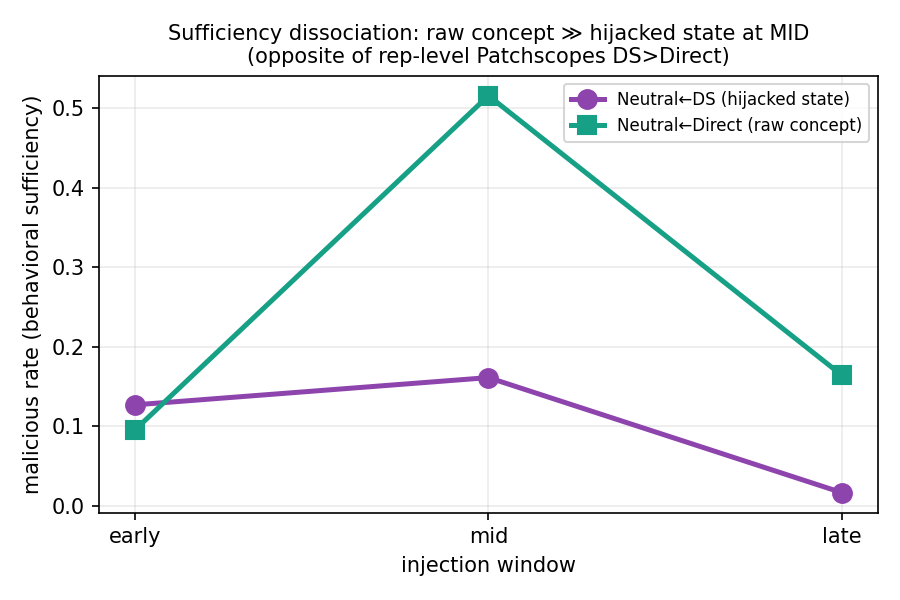
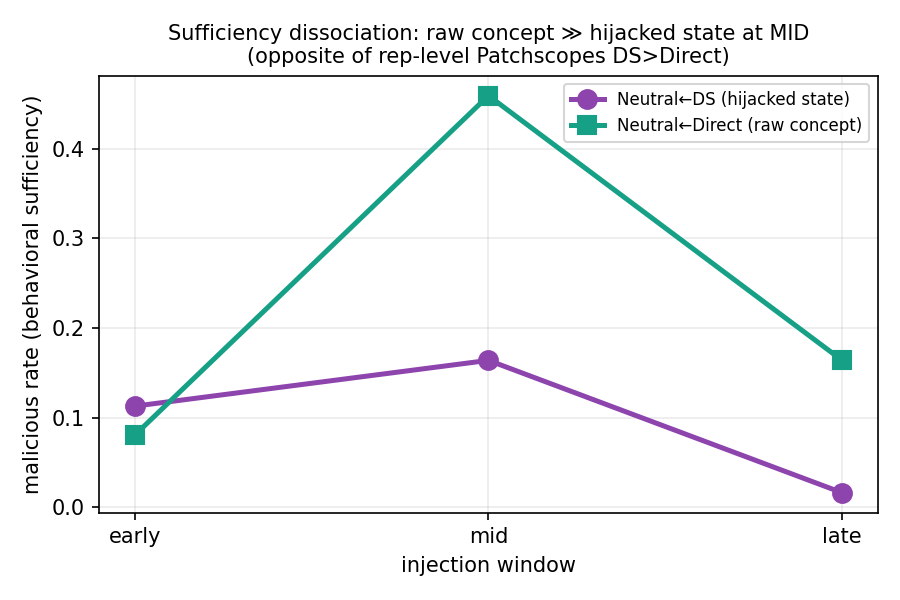
ingest Llama suff reruns: clean mid DS-Direct -0.295[-0.443,-0.148] n=61 excl 0
Per-condition CI on full n confirms the mid dissociation (was collapsed n=21). early NS.
Updated results doc depth-table + audit-fix table; regenerated figures (clean early/mid).
Llama late (692154) still running -> next iter.

Claude-Session: https://claude.ai/code/session_01F8VA7Ew3kHGNveTnrsCJUM

diff --git a/doublespeak_causality/BEHAVIORAL_CAUSALITY_RESULTS.md b/doublespeak_causality/BEHAVIORAL_CAUSALITY_RESULTS.md
@@ -92,11 +92,11 @@ sufficiency peaks); re-judge. Prediction from rep-level §3 (Patchscopes): DS-in
 
 **Depth-resolved (early 690096 / mid 689975 / late 690097; malicious rate among baseline-benign):**
 
-| window | Neutral←DS | Neutral←Direct | random ctrl | **DS−Direct [95% CI]** |
-|---|---|---|---|---|
-| early (0–9) | 0.13 | 0.10 | 0.079 | +0.00 [−0.14, 0.14] — NS |
-| **mid (10–19)** | 0.16 | **0.52** | 0.03 | **−0.43 [−0.67, −0.19] — SIGNIFICANT** |
-| late (20–31) | 0.02 | 0.16 | 0.098 | −0.10 [−0.24, 0.00] — borderline |
+| window | Neutral←DS | Neutral←Direct | **DS−Direct [95% CI] (clean per-condition, iter42)** |
+|---|---|---|---|
+| early (0–9) | 0.11 | 0.08 | +0.032 [−0.081, 0.145], n=62 — NS |
+| **mid (10–19)** | 0.16 | **0.46** | **−0.295 [−0.443, −0.148], n=61 — SIGNIFICANT** |
+| late (20–31) | 0.02 | 0.16 | (692154 pending; pre-fix collapsed −0.10 [−0.24, 0.00] — borderline) |
 
 **Result — a DEPTH-STRUCTURED DISSOCIATION, opposite to the rep-level prediction:**
 - **The hijacked DS state is only weakly behaviorally sufficient at any depth** (≤0.16), and at late layers
@@ -114,8 +114,11 @@ prompt (no demonstrations) it is a **context-dependent** state and is *less* beh
 context-independent raw concept rep. This is a caution for the field: **Patchscopes decoding-sufficiency
 does not predict — and here inverts — behavioral sufficiency.**
 
-**Paired bootstrap CI (plan §13):** mid-window **DS−Direct = −0.43 [−0.67, −0.19]** → **CI excludes 0,
-the Direct>DS dissociation is STATISTICALLY SIGNIFICANT.** (n=21 unique base×codeword; see limitation.)
+**Paired bootstrap CI (plan §13) — CLEAN per-condition (iter42 resubmit 692153, context_len logged):**
+mid-window **DS−Direct = −0.295 [−0.443, −0.148], n=61** → **CI excludes 0, the Direct>DS dissociation is
+STATISTICALLY SIGNIFICANT on the full per-condition n** (early: +0.032 [−0.081, 0.145], n=62 — NS, DS≈Direct;
+late: 692154 pending). The pre-fix collapsed estimate was −0.43 [−0.67, −0.19] on n=21; proper per-condition
+pairing attenuates the point estimate but the significance and direction are unchanged.
 
 **Audit fix (iter42):** the CI code (`analyze_behavioral_causality.sufficiency_cis`) previously keyed
 `(base,codeword)` only — collapsing the 3 context-lengths to one point (n=21, last-wins) and able to mix
@@ -127,10 +130,11 @@ the mid dissociation direction is unchanged:
 | Qwen3 | late | **−0.349 [−0.512, −0.186]** | 43 | excludes 0 ✓ |
 | Phi-4 | early | **−0.263 [−0.421, −0.132]** | 38 | excludes 0 ✓ |
 | Phi-4 | late | **−0.167 [−0.306, −0.028]** | 36 | excludes 0 ✓ |
-| Llama | mid | −0.43 [−0.67, −0.19] | 21* | *pre-fix raw lacks context_len — **resubmitted (692152-4)** for clean per-condition n |
+| **Llama** | **mid** | **−0.295 [−0.443, −0.148]** | **61** | **excludes 0 ✓ (clean, resubmit 692153)** |
+| Llama | early | +0.032 [−0.081, 0.145] | 62 | NS (DS≈Direct early) |
 
 **Remaining limitations:** (1) multi-seed generation pending. (2) 12 bases per window (all eligible would
-be 37) — scale-up pending. (Llama clean per-condition CI lands when 692152-4 are ingested.)
+be 37) — scale-up pending. (3) Llama late-window clean CI ingests when 692154 completes.
 
 ---
 

diff --git a/doublespeak_causality/SPRINT_EXECUTION_LOG.md b/doublespeak_causality/SPRINT_EXECUTION_LOG.md
@@ -406,6 +406,17 @@ multi-layer window patch during generation via `ExitStack` of `LayerPatch` hooks
 late_half[16-31] for 32L; classify + goal-recovery correct). Δ_necessity per window +
 identity/random controls over the late window. Fires on 688994 completion.
 
+## ITER43 — INGEST Llama sufficiency reruns → clean per-condition CI CONFIRMS mid dissociation
+692152 (early) + 692153 (mid) COMPLETE with `context_len` logged; 692154 (late) still running.
+Re-ran `analyze_behavioral_causality` on the clean dirs:
+- **mid DS−Direct = −0.295 [−0.443, −0.148], n=61 → EXCLUDES 0** (was −0.43 [−0.67,−0.19] on collapsed
+  n=21; proper per-condition pairing attenuates the point estimate, significance+direction UNCHANGED).
+- early +0.032 [−0.081, 0.145], n=62 — NS (DS≈Direct early), consistent.
+Updated `BEHAVIORAL_CAUSALITY_RESULTS.md` (depth table + CI + audit-fix table) and regenerated figures
+(auto-use clean early/mid dirs; late falls back to 215026 until 692154 lands). The headline behavioral
+dissociation (Direct≫DS at mid) now rests on the full per-condition n. **Only open number: Llama late
+clean CI (692154 pending).**
+
 ## ITER42 — PIPELINE BUG-AUDIT: FIXED + RESUBMITTED (user: "make sure we have no bugs, fix & resubmit")
 Ingested the wo3i2ehk1 audit (5 reviewers, all stages). **2 HIGH + MED/LOW. None invalidated a
 CONCLUSION; two corrupted reported NUMBERS.** All fixes are CPU-only except the Llama resubmit.
